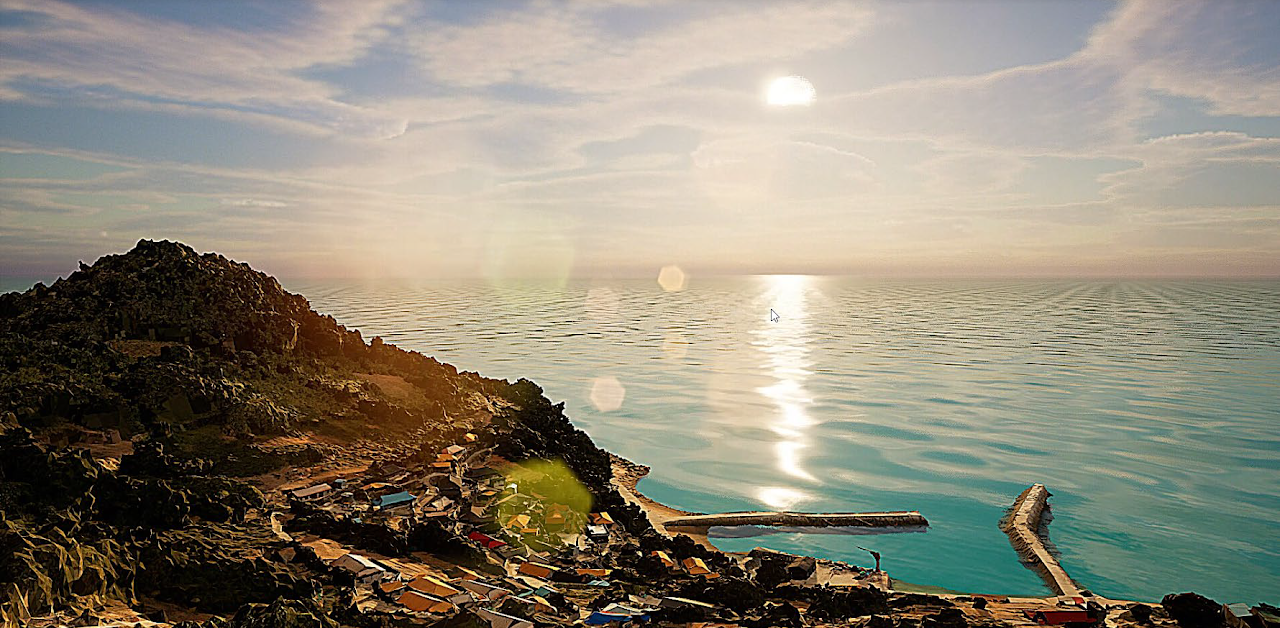
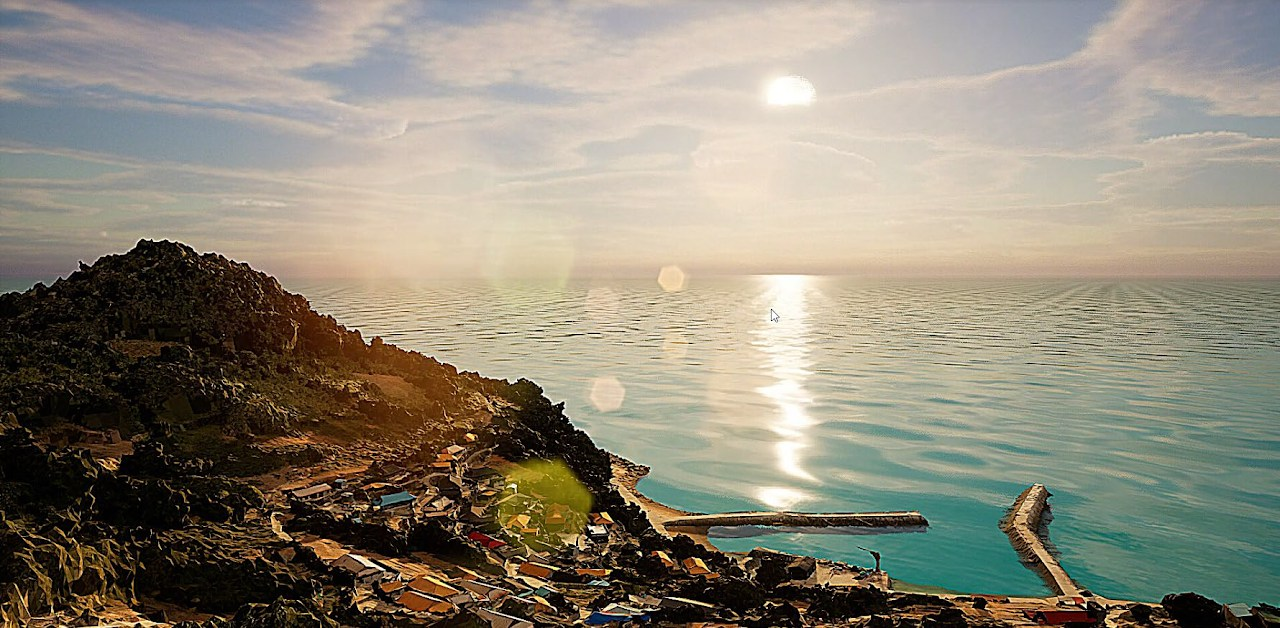
Optimize images (5MB saved), add multi-photo support for news/projects/lab

diff --git a/index.html b/index.html
@@ -450,6 +450,12 @@ journals: [
   .pjshot img{display:block;width:100%;max-height:300px;object-fit:cover}
   .newsshot{margin-top:10px;border:1px solid var(--line);max-width:560px}
   .newsshot img{display:block;width:100%;max-height:260px;object-fit:cover}
+  /* 여러 장이면 2열 그리드로 배치 */
+  .newsshot:has(img + img), .pjshot:has(img + img){display:grid;grid-template-columns:1fr 1fr;gap:6px;padding:6px;background:var(--panel)}
+  .newsshot:has(img + img) img, .pjshot:has(img + img) img{height:200px;max-height:none;object-fit:cover;border:1px solid var(--line)}
+  .labshot:has(img + img){display:grid;grid-template-columns:1fr 1fr;gap:8px}
+  .labshot:has(img + img) figcaption{grid-column:1 / -1}
+  .labshot:has(img + img) img{height:260px;max-height:none;object-fit:cover}
   .news h4 a{color:var(--pine);text-decoration:none}
   .news h4 a:hover{text-decoration:underline}
   /* 저널 카드 */
@@ -980,18 +986,40 @@ journals: [
 })();
 
 // photo loader — images/….jpg|png|jpeg|webp 파일이 있으면 자동 표시, 없으면 이니셜 유지
-document.querySelectorAll("[data-photo]").forEach(function(el){
-  var base = el.dataset.photo, exts = ["jpg", "png", "jpeg", "webp"], i = 0;
-  var img = new Image();
-  img.onload = function(){
-    img.alt = el.dataset.alt || "";
-    if (el.hasAttribute("hidden")) { el.hidden = false; }   // 사진이 있을 때만 영역 표시 (labshot·pjshot)
-    else { img.className = "photo"; }                        // 아바타·프로필은 이니셜 위에 덮기
-    el.prepend(img);
-  };
-  img.onerror = function(){ i++; if (i < exts.length) img.src = base + "." + exts[i]; };
-  img.src = base + "." + exts[0];
-});
+// 뉴스·과제·단체사진은 "파일명-2.jpg", "파일명-3.jpg" … 로 여러 장(최대 8장) 자동 표시
+(function(){
+  var exts = ["jpg", "png", "jpeg", "webp"];
+  function attempt(base, cb){
+    var i = 0, img = new Image();
+    img.onload = function(){ cb(img); };
+    img.onerror = function(){ i++; if (i < exts.length) img.src = base + "." + exts[i]; else cb(null); };
+    img.src = base + "." + exts[0];
+  }
+  document.querySelectorAll("[data-photo]").forEach(function(el){
+    var base = el.dataset.photo;
+    var multi = el.classList.contains("newsshot") || el.classList.contains("pjshot") || el.classList.contains("labshot");
+    var cap = el.querySelector("figcaption");
+    function put(im){ if (cap) el.insertBefore(im, cap); else el.appendChild(im); }
+    attempt(base, function(img){
+      if (!img) return;
+      img.alt = el.dataset.alt || "";
+      if (el.hasAttribute("hidden")) { el.hidden = false; put(img); }
+      else if (multi) { put(img); }
+      else { img.className = "photo"; el.prepend(img); }
+      if (!multi) return;
+      var n = 2;
+      (function next(){
+        if (n > 8) return;
+        attempt(base + "-" + n, function(im){
+          if (!im) return;
+          im.alt = "";
+          put(im);
+          n++; next();
+        });
+      })();
+    });
+  });
+})();
 
 // theme toggle
 (function(){
